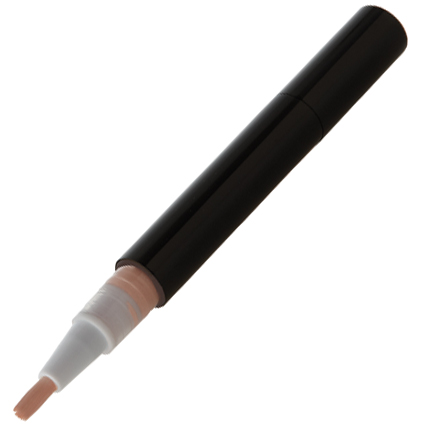
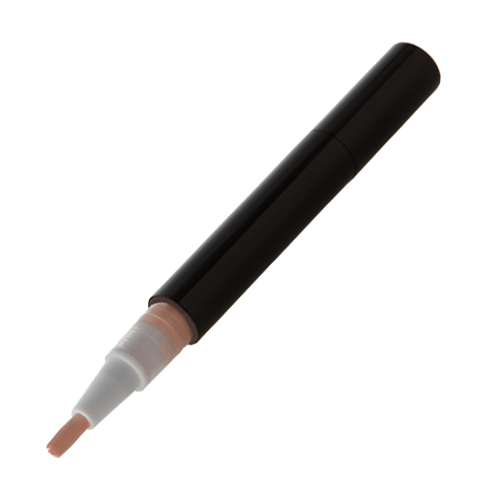
more design updates and cropped some product images

Changed region(s): [[0.03, 0.0, 0.9607, 1.0], [0.8406, 0.184, 0.8707, 0.2146], [0.8106, 0.2146, 0.8406, 0.2453]]

diff --git a/templates/builder.html b/templates/builder.html
@@ -100,12 +100,16 @@
         </a>
       </div>
       <div class="collapse navbar-collapse" id="bs-navbar-collapse-1" style="z-index:999999;">
+
+        <!--
         <ul class="nav navbar-nav nav-left" style="margin-top:3px;">
           <li><a href="/">Home </a></li>
           <li><a href="/faq">FAQ</a></li>
           <li><a href="/faze-rain">Examples</a></li>
           <li><a href="mailto:sarah@fandemic.co">Contact Us</a></li>
         </ul>
+        -->
+
         <ul class="nav navbar-nav navbar-right" style="z-index:999999;">
 
           <li style="z-index:999999;"><a style="z-index:999999;" href="#" data-toggle="modal" data-target="#how-fandemic-works" class="btn {% if cat == 'beauty' %}beautify{% endif %}">How Does Fandemic Work?</a></li>
@@ -118,14 +122,18 @@
   <!--navigation end-->
 
   <!--fixed footer for next button -->
-  <div style="width:100%;height:80px;background:#e1e1e1;position:fixed;bottom:0px;z-index:99;padding:10px;padding-left:10%;padding-right:10%;">
+  <div style="width:100%;height:80px;background:#fff;position:fixed;
+              bottom:0px;z-index:99;padding:10px;padding-left:10%;padding-right:10%;
+              -webkit-box-shadow: 0px -1px 17px -6px rgba(0,0,0,1);
+-moz-box-shadow: 0px -1px 17px -6px rgba(0,0,0,1);
+box-shadow: 0px -1px 17px -6px rgba(0,0,0,1);">
     <h3 style="float:left;">
-      Step 1: Custom or Premade
+      Step <strong>1</strong> of 6: <i style="font-size:20px;">Custom or Premade</i>
     </h3>
     <button id="next-btn2" class="btn btn-primary btn-lg btn-nav
                     {% if cat == 'beauty' %}btn-beauty{% endif %}
                     next-btn" style="float:right;width: 300px;margin-top: 0px;">
-      <strong>NEXT STEP</button>
+      <strong>NEXT STEP</strong>  <i class="fa fa-arrow-right" aria-hidden="true"></i></button>
 
   </div>
 
@@ -145,7 +153,7 @@
                    style="z-index:99;">
               	<ul>
               		<li><a class="crumb current" id="crumb1" data-step="step1">Premade/Custom</a></li>
-              		<li><a class="crumb" id="crumb2" data-step="step2">Items</a></li>
+              		<li><a class="crumb" id="crumb2" data-step="step2">Products</a></li>
               		<li><a class="crumb" id="crumb3" data-step="step3">Packaging</a></li>
                   <li><a class="crumb" id="crumb4" data-step="step4">Pricing</a></li>
                   <li><a class="crumb" id="crumb5" data-step="step5">Confirm</a></li>
@@ -836,7 +844,7 @@
           <div id="step5" class="steps container" style="margin-top:60px;display:none;">
 
             <div class="col-md-8">
-              <h3 class="subtitle"><strong>Write a story</strong> about your beauty box!</h3>
+              <h3 class="subtitle"><strong>Edit</strong> your beauty box description!</h3>
 
   <textarea>
     <p style="text-align: center;">

diff --git a/static/css/builder.css b/static/css/builder.css
@@ -318,14 +318,13 @@ a:focus {
 
   .thumbnail .cost{
     position: absolute;
-    top:-15px;
-    right: -15px;
+    top:0px;
+    right: 0px;
     font-weight: 700;
-    color: #fff;
+    color: green;
     opacity: .3;
     width: 40px;
    height: 40px;
-   background: green;
    -moz-border-radius: 20px;
    -webkit-border-radius: 20px;
    border-radius: 20px;
@@ -495,7 +494,7 @@ a:focus {
         }
 
         .btn-nav{
-          padding: 1em;
+          padding: .6em;
           padding-left: 2em;
           padding-right: 2em;
           color: #fff;
@@ -512,7 +511,7 @@ a:focus {
           border: none;
           border-radius: 2px;
 
-          font-size: 18px;
+          font-size: 22px;
           width: 100%;
         }
 

diff --git a/static/js/builder.js b/static/js/builder.js
@@ -101,7 +101,7 @@ $(".thumbnail .content").click(function(){
 
   $(this).toggleClass("checked");
 
-  $.notify("Product Added To Box", { position:"right bottom",className:"success" });
+  $.notify("Product Added To Box", { position:"bottom center",className:"success" });
 });
 
 //story wsywig editor
